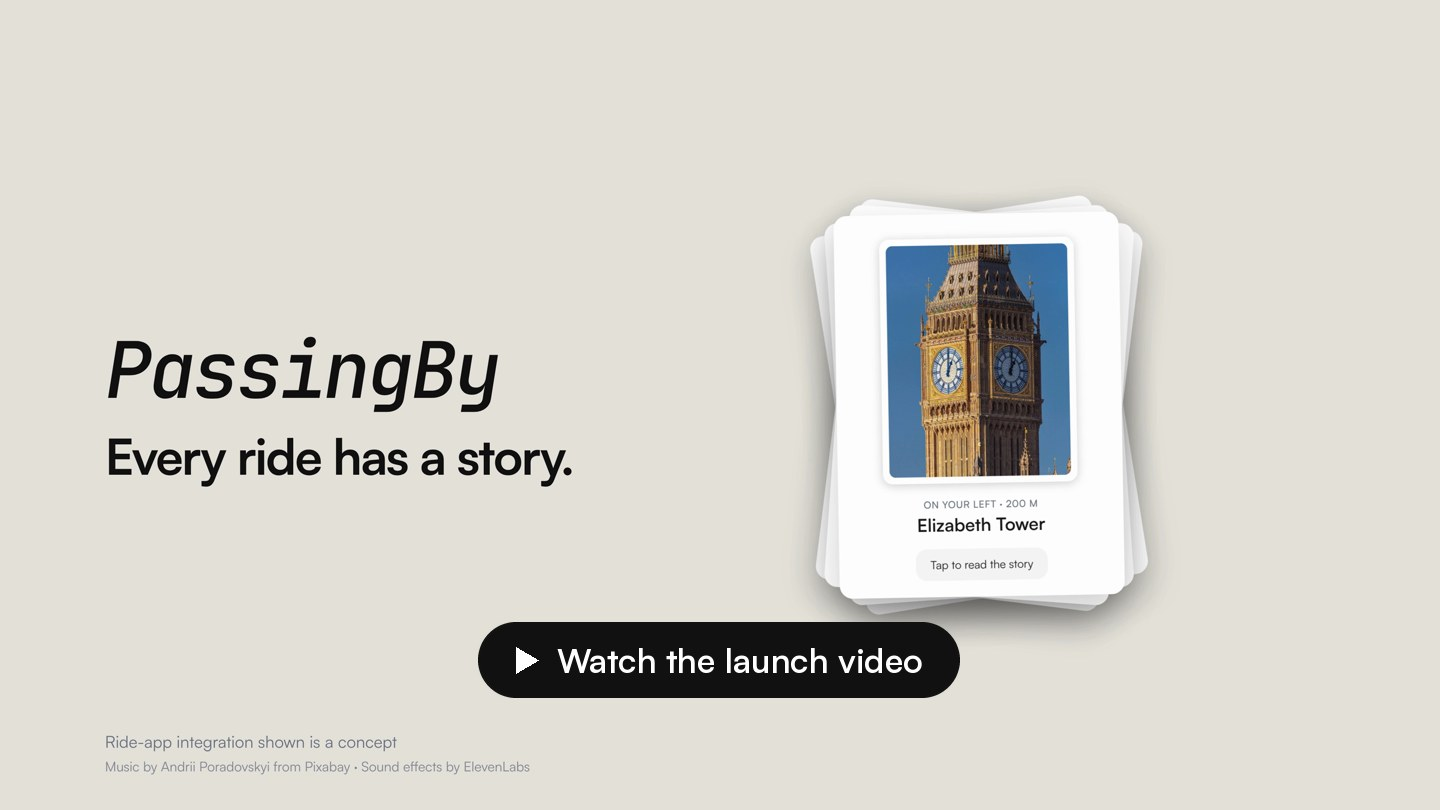
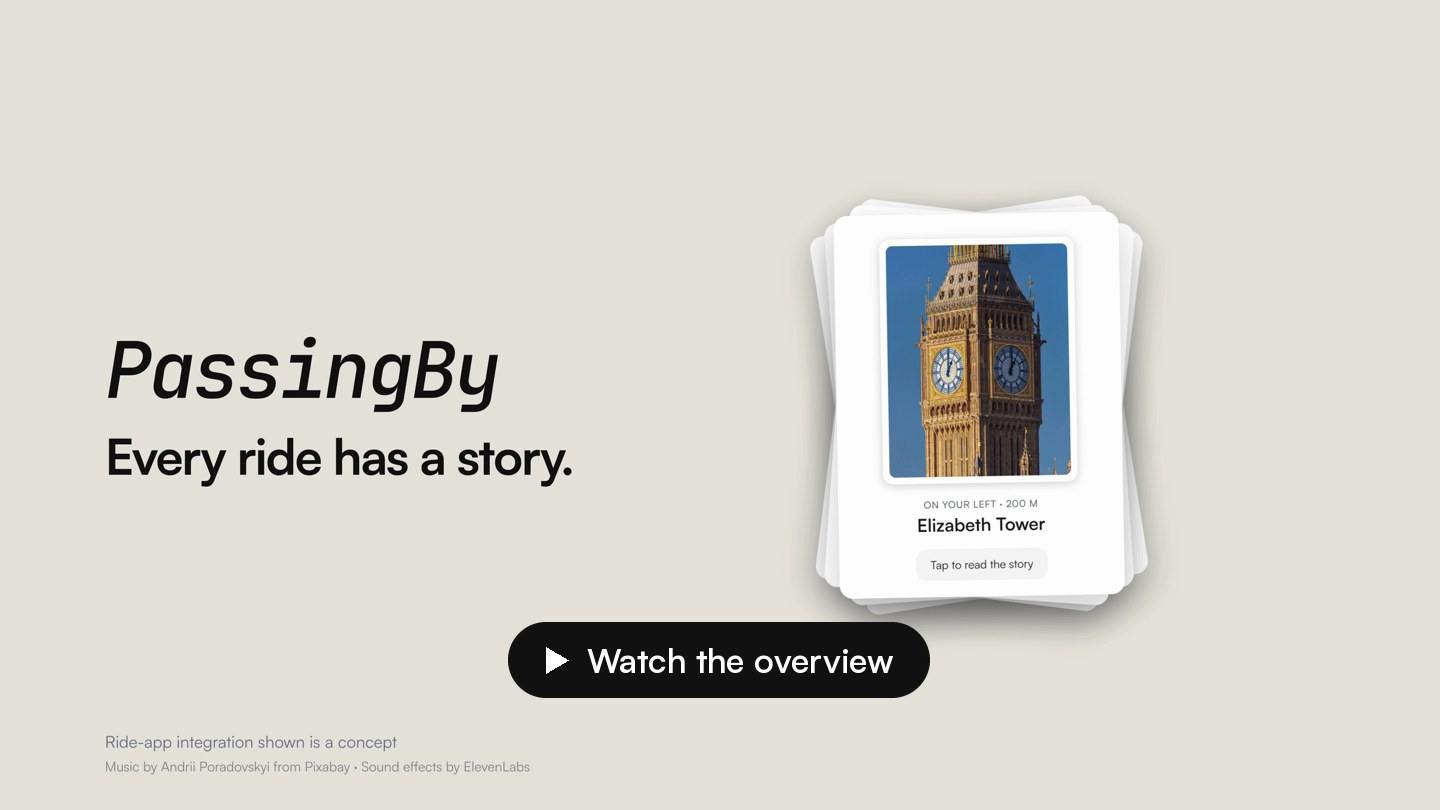
README: rename the video section to Video overview
Claude-Session: https://claude.ai/code/session_016goVx7GsvxWjjB5fGVZbGN

Changed region(s): [[0.3125, 0.7716, 0.6875, 0.8642]]

diff --git a/README.md b/README.md
@@ -40,11 +40,11 @@ PassingBy turns a London journey into a short history lesson. As you pass a land
 
 <img src="docs/images/v2/mockups/ride.jpg" alt="The ride in three steps: the map with the next stop, a postcard for Elizabeth Tower, and the story on the back" width="100%">
 
-## Launch video
+## Video overview
 
 <div align="center">
   <a href="https://www.youtube.com/watch?v=4OvFjlmLESk">
-    <img src="docs/images/v2/video-thumbnail.jpg" alt="Watch the PassingBy launch video on YouTube" width="720">
+    <img src="docs/images/v2/video-thumbnail.jpg" alt="Watch the PassingBy video overview on YouTube" width="720">
   </a>
   <br>
   <sub>A 45-second look at PassingBy: the landmark stories, Alfie, the two ways in and the ride. Opens on YouTube.</sub>
